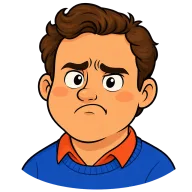
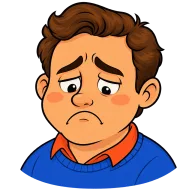
SKATGO-147 faces bigger, sulks clearly unhappy, talk between the faces on a phone
Faces 80u (64u in portrait); the stage only moves down when the free height lacks their room; new sulking faces;
the band's talk keeps between the two faces.

diff --git a/app/src/theme/table.stylex.ts b/app/src/theme/table.stylex.ts
@@ -10,11 +10,13 @@ import { bp } from './breakpoints.stylex'
 //
 // The felt is the size container (`containerType: 'size'`). Its unit `u` is the largest that fits a
 // design stage under that band:
-//   landscape  1000u wide × 648u tall: Lina's and Noah's faces at the top (72u), under them the frame (300u),
-//              the stacks on both edges, the whole hand along the bottom (the human: no card runs off the felt);
-//   portrait    400u wide × 538u tall: the faces' 74u, a narrower frame (250u), the stacks deeper in the edges.
-// The faces' room (SKATGO-147, the human chose it: the table a little smaller on a short screen rather than a face
-// over the cards) holds a face above a stack of twelve cards, the most a hand ever has.
+//   landscape  1000u wide × 576u tall: the frame (300u) near the top, the stacks on both edges, the
+//              whole hand along the bottom (the human: no card runs off the felt);
+//   portrait    400u wide × 464u tall: a narrower frame (250u), the stacks deeper in the edges.
+// Above that stage Lina's and Noah's faces have their own room (SKATGO-147, the human chose it: the table a little
+// smaller on a short screen rather than a face over the cards): 88u (82u in portrait), a face above a stack of
+// twelve cards, the most a hand ever has. The stage sits where it always sat when the free height above it already
+// holds that room, and only moves down when it does not.
 // Where the felt has more room than the stage, the frame and the stacks keep to the middle of the free
 // height and the hand to the bottom: things only ever move apart.
 //
@@ -22,12 +24,17 @@ import { bp } from './breakpoints.stylex'
 
 export const stageUnit = stylex.defineVars({
   u: {
-    default: 'min(0.1cqw, calc((100cqh - 140px) / 648))',
-    [bp.portrait]: 'min(0.25cqw, calc((100cqh - 212px) / 538))',
+    default: 'min(0.1cqw, calc((100cqh - 140px) / 664))',
+    [bp.portrait]: 'min(0.25cqw, calc((100cqh - 212px) / 546))',
   },
 })
 
 const u = stageUnit.u
+/** The stage's top under the band: half the free height, or the faces' room when that is more (SKATGO-147). */
+const above = {
+  default: `max((100cqh - 140px - ${u} * 576) / 2, ${u} * 88)`,
+  portrait: `max((100cqh - 212px - ${u} * 464) / 2, ${u} * 82)`,
+}
 
 export const stage = stylex.defineVars({
   /** The learner's card: 130u (96u in portrait), shown whole. */
@@ -45,24 +52,28 @@ export const stage = stylex.defineVars({
   drawerMaxHeight: { default: `calc(100cqh - ${u} * 182 - 18px - 140px)`, [bp.portrait]: `calc(100cqh - ${u} * 135 - 18px - 212px)` },
   /** The frame: 300u square (250u), its top 10u under the band. */
   frame: { default: `calc(${u} * 300)`, [bp.portrait]: `calc(${u} * 250)` },
-  /** The frame's centre down the felt: the band, half the free height, then 232u (209u). */
+  /** The frame's centre down the felt: the band, the stage's top, then 160u (135u). */
   frameCentre: {
-    default: `calc(140px + (100cqh - 140px - ${u} * 648) / 2 + ${u} * 232)`,
-    [bp.portrait]: `calc(212px + (100cqh - 212px - ${u} * 538) / 2 + ${u} * 209)`,
+    default: `calc(140px + ${above.default} + ${u} * 160)`,
+    [bp.portrait]: `calc(212px + ${above.portrait} + ${u} * 135)`,
   },
   /** The stacks' centre: 45u above the frame's (30u in portrait), so their foot stays clear of the edge tabs. */
   stackCentre: {
-    default: `calc(140px + (100cqh - 140px - ${u} * 648) / 2 + ${u} * 187)`,
-    [bp.portrait]: `calc(212px + (100cqh - 212px - ${u} * 538) / 2 + ${u} * 179)`,
+    default: `calc(140px + ${above.default} + ${u} * 115)`,
+    [bp.portrait]: `calc(212px + ${above.portrait} + ${u} * 105)`,
   },
-  /** Lina's and Noah's faces (SKATGO-147): 64u (56u) at the top of the stage, 3u (2.5u) down, above their stacks. */
-  face: { default: `calc(${u} * 64)`, [bp.portrait]: `calc(${u} * 56)` },
+  /** Lina's and Noah's faces (SKATGO-147): 80u (64u), their top 85u (79.5u) above the stage's, 4u clear of a
+   *  twelve-card stack. */
+  face: { default: `calc(${u} * 80)`, [bp.portrait]: `calc(${u} * 64)` },
   faceTop: {
-    default: `calc(140px + (100cqh - 140px - ${u} * 648) / 2 + ${u} * 3)`,
-    [bp.portrait]: `calc(212px + (100cqh - 212px - ${u} * 538) / 2 + ${u} * 2.5)`,
+    default: `calc(140px + ${above.default} - ${u} * 85)`,
+    [bp.portrait]: `calc(212px + ${above.portrait} - ${u} * 79.5)`,
   },
   /** How far a face sits in from the felt's edge, over the part of the stack that shows. */
-  faceInset: { default: `calc(${u} * 9)`, [bp.portrait]: `calc(${u} * 6)` },
+  faceInset: { default: `calc(${u} * 4)`, [bp.portrait]: `calc(${u} * 4)` },
+  /** Where the table talk runs in the band (not beside the frame), it keeps between the two faces: the felt's width
+   *  less a face, its inset and 4u on each side. */
+  talkBetweenFaces: { default: `calc(100cqw - ${u} * 176)`, [bp.portrait]: `calc(100cqw - ${u} * 144)` },
   /** An opponent's card: 100u wide (90u), lying sideways in a slot as wide as the card is tall. */
   stackCard: { default: `calc(${u} * 100)`, [bp.portrait]: `calc(${u} * 90)` },
   stackSlotWidth: { default: `calc(${u} * 140)`, [bp.portrait]: `calc(${u} * 126)` },

diff --git a/app/src/components/skat/game-table.tsx b/app/src/components/skat/game-table.tsx
@@ -1731,7 +1731,7 @@ const styles = stylex.create({
   talkLeft: { right: '100%', marginRight: space.x16 },
   talkRight: { left: '100%', marginLeft: space.x16 },
   talkHand: { flexShrink: 0, width: dims.talkHand, height: dims.talkHand, overflow: 'visible', alignSelf: 'flex-end' },
-  talkRow: { display: 'flex', width: dims.tipWidth },
+  talkRow: { display: 'flex', width: dims.tipWidth, maxWidth: stage.talkBetweenFaces },
   talkRowLeft: { justifyContent: 'flex-start' },
   talkRowRight: { justifyContent: 'flex-end' },
   plateSlot: { position: 'absolute', display: 'flex' },

diff --git a/.intentfold/charter/ui.md b/.intentfold/charter/ui.md
@@ -425,8 +425,9 @@ Recurring patterns — reuse them rather than inventing a neighbour:
   dark red, Noah a man in blue (「暗红和蓝……不是海军蓝」, so neither melts into the felt), in the flat sticker style
   the human chose from five. Three faces each — neutral, laughing, sulking: the bidding's winner laughs until the
   first card; a finished trick makes the side that took it laugh and the other side sulk until it is collected, by
-  side as Skat scores (`faceOf`). The stage keeps their room at its top (1000u × 648u, 400u × 538u in portrait), so
-  on a screen short of height the table is a little smaller rather than a face over the cards.
+  side as Skat scores (`faceOf`). The stage keeps their room above it (88u, 82u in portrait): where the free height
+  already holds it nothing moves; on a screen short of height the table is a little smaller rather than a face over
+  the cards. Where the talk runs in the band, it keeps between the two faces (`stage.talkBetweenFaces`).
 - **The way out of a table** (SKATGO-96, the human: 「退出按钮……放到打牌界面上」): a white round button in the
   felt's top right corner, the size the assistant's launcher had (`dims.launcher`; the assistant is gone, SKATGO-130),
   on every full-screen table. It opens a small white menu under it: "Weiterspielen" (`go`), on free play "Neue Runde"
